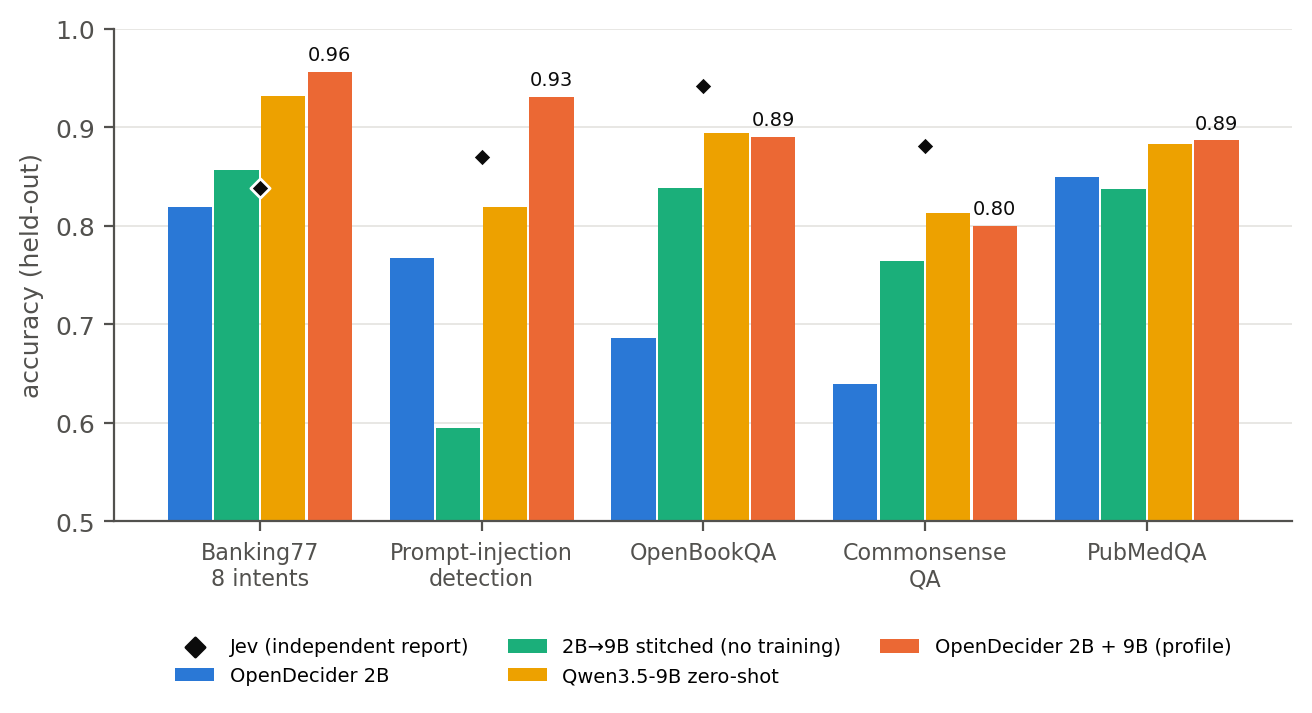
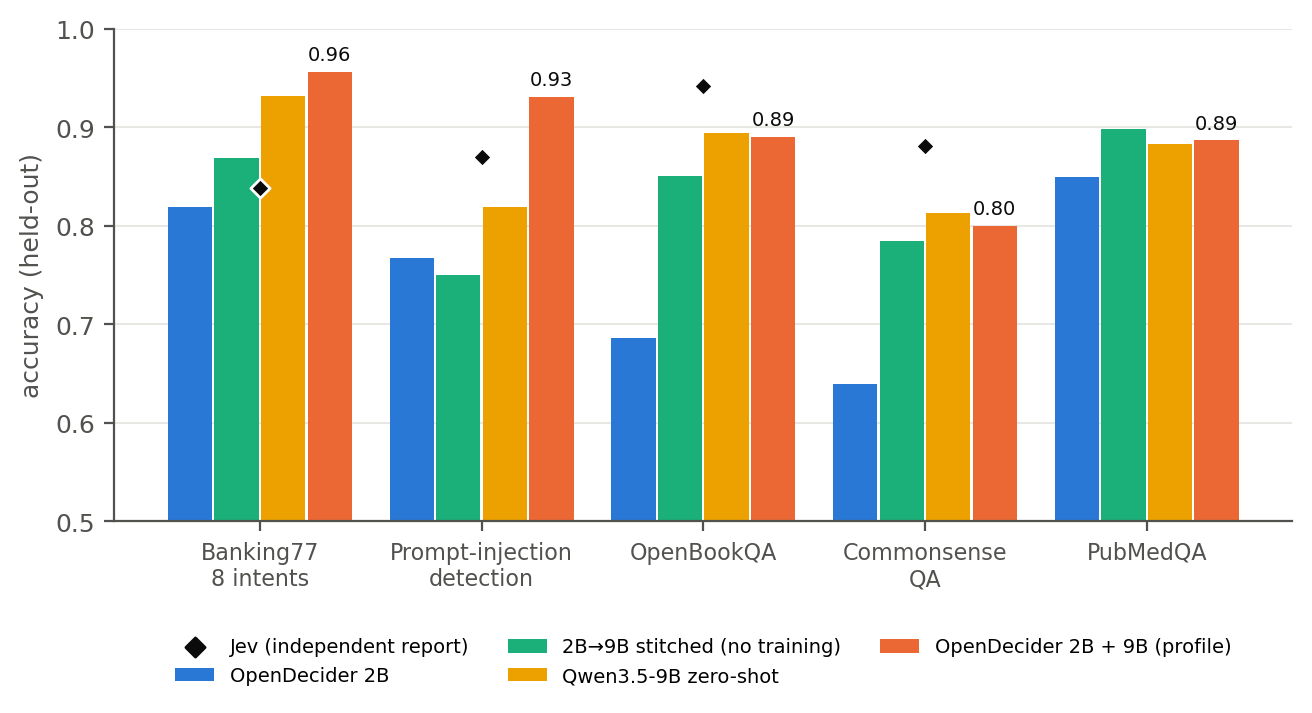
Corrected stitched-9B results on the GGUF weights (typed-decisions 0.643, public, none, memory); figures updated

diff --git a/docs/make_figures.py b/docs/make_figures.py
@@ -20,9 +20,9 @@ rows = [  # name, accuracy, KL, colour, ours?
     ("MiniLM-L6, fitted per workflow", 0.587, 0.262, GREY, False),
     ("Prior (ignores input)", 0.470, 0.347, GREY, False),
     ("OpenDecider 2B, zero-shot", 0.577, 0.324, BLUE, True),
-    ("OpenDecider 2B→9B stitched, zero-shot", 0.616, 0.279, BLUE, True),
+    ("OpenDecider 2B→9B stitched, zero-shot", 0.643, 0.240, BLUE, True),
     ("OpenDecider + 9B, linear profile", 0.600, 0.271, AQUA, True),
-    ("OpenDecider tree profile (fitted, 2-fold)", 0.675, None, ORANGE, True),
+    ("OpenDecider tree profile (fitted, 2-fold)", 0.686, None, ORANGE, True),
 ]
 fig, ax = plt.subplots(figsize=(7.4, 3.6))
 y = list(range(len(rows)))[::-1]
@@ -43,7 +43,7 @@ fig.savefig("docs/img/typed_decisions.png"); plt.close(fig)
 # ---- public benchmarks
 B = [("banking77_8way", "Banking77\n8 intents"), ("prompt_injections", "Prompt-injection\ndetection"), ("openbookqa", "OpenBookQA"),
      ("commonsenseqa", "Commonsense\nQA"), ("pubmedqa", "PubMedQA")]
-S = [("preds-x2b", "OpenDecider 2B", BLUE), ("public-x9b-stitch", "2B→9B stitched (no training)", AQUA),
+S = [("preds-x2b", "OpenDecider 2B", BLUE), ("public-x9b-gguf", "2B→9B stitched (no training)", AQUA),
      ("zs-9b", "Qwen3.5-9B zero-shot", YELLOW)]
 JEV = {"banking77_8way": 0.838, "prompt_injections": 0.870, "openbookqa": 0.942, "commonsenseqa": 0.881}
 ENS = json.load(open("runs/ens-x2b-9b/ensemble_cv.json"))

diff --git a/README.md b/README.md
@@ -74,8 +74,8 @@ Full tables: [`docs/RESULTS.md`](docs/RESULTS.md).
 | meraGPT Decider 1 (proprietary) | leaderboard | 0.768 | 0.096 | 0.052 |
 | TypeSafe Jev 1.13 (proprietary) | leaderboard | 0.727 | 1.442 | 0.148 |
 | Featherless Simple Jev (35B MoE) | leaderboard | 0.716 | 0.488 | 0.176 |
-| OpenDecider tree profile | fitted, 2-fold | **0.675** [0.66, 0.69] | – | **0.113** |
-| OpenDecider 2B→9B stitched | zero-shot | **0.616** [0.59, 0.64] | **0.279** | 0.153 |
+| OpenDecider tree profile | fitted, 2-fold | **0.686** [0.67, 0.71] | – | **0.106** |
+| OpenDecider 2B→9B stitched | zero-shot | **0.643** [0.62, 0.67] | **0.240** | 0.135 |
 | OpenDecider 2B | zero-shot | 0.577 | 0.324 | 0.168 |
 | Qwen3.5-9B letter scores | zero-shot | 0.573 | 0.899 | 0.344 |
 
@@ -100,9 +100,10 @@ labeled data, and is not a zero-shot result.
 | | Banking77 (8-way) | Prompt-injection detection | OpenBookQA | CommonsenseQA | PubMedQA |
 |---|---|---|---|---|---|
 | OpenDecider 2B | 0.819 | 0.767 | 0.686 | 0.639 | 0.849 |
-| 2B→9B stitched | 0.856 | 0.595 | 0.838 | 0.764 | 0.837 |
+| 2B→9B stitched | 0.869 | 0.750 | 0.850 | 0.785 | **0.898** |
 | Qwen3.5-9B zero-shot | 0.931 | 0.819 | 0.894 | 0.813 | 0.883 |
-| OpenDecider 2B + 9B profile | **0.956** | **0.931** | 0.890 | 0.800 | **0.887** |
+| OpenDecider 2B + 9B profile | **0.956** | **0.931** | 0.890 | 0.800 | 0.887 |
+| OpenDecider stitched 9B + 9B profile | 0.950 | 0.897 | **0.900** | 0.810 | **0.899** |
 | Jev (third-party report) | 0.838 | 0.870 | 0.942 | 0.881 | – |
 
 All values are accuracy. Prompt-injection detection is a classification task
@@ -111,18 +112,18 @@ model labels each text as an injection attempt or a normal request. 0.931 means 
 label; the errors include both missed injections and false alarms. It does not measure whether the model itself
 resists injected instructions inside a state. That is a separate test and not done yet.
 
-### `none` option (2B backbone, no extra training)
+### `none` option (no extra training)
 
 Held-out questions from the training families (clinc, massive, dbpedia, arc, snli), plus questions paired with an
 unrelated state. AUROC measures how well P(none) separates unanswerable from answerable questions.
 
-| Case | Mean P(none) | AUROC vs answerable |
-|---|---|---|
-| Answerable (correct option listed) | 0.097 | – |
-| Correct option removed | 0.430 | 0.845 |
-| State unrelated to the question | 0.151 | 0.795 |
+| Case | 2B: mean P(none) | 2B: AUROC | 9B stitched: mean P(none) | 9B stitched: AUROC |
+|---|---|---|---|---|
+| Answerable (correct option listed) | 0.097 | – | 0.021 | – |
+| Correct option removed | 0.430 | 0.845 | 0.301 | 0.945 |
+| State unrelated to the question | 0.151 | 0.795 | 0.095 | 0.925 |
 
-Accuracy on answerable questions is unchanged (0.892). A learned `none` vector with only its two parameters trained
+Accuracy on answerable questions: 0.892 (2B), 0.916 (9B). A learned `none` vector with only its two parameters trained
 did worse (unrelated-state AUROC 0.537). See [`docs/roadmap_designs.md`](docs/roadmap_designs.md).
 
 ### Memory and quantization (Jetson AGX Orin, 2B backbone, no retraining)
@@ -204,10 +205,10 @@ Design notes: [`docs/roadmap_designs.md`](docs/roadmap_designs.md),
 | | Minimum | Tested |
 |---|---|---|
 | GPU memory, 2B backbone | 2.4 GB for states up to about 1k tokens, 2.5 GB up to 4k, 3.1 GB up to 15k (int8 weights: 1.9 GB). With 4-bit weights and cache: 1.8 / 1.8 / 2.5 GB | Jetson AGX Orin 64 GB (inference), DGX Spark (training) |
-| GPU memory, 9B backbone | about 10 GB of int8 weights plus the same per-state cost (estimate, not measured) | Jetson AGX Orin 64 GB |
+| GPU memory, 9B backbone | 9.8 GB for states up to about 1k tokens, 9.9 GB up to 4k, 11.0 GB up to 15k (int8 weights: 8.6 GB) | Jetson AGX Orin 64 GB |
 | Host RAM | 12 GB peak while loading the 2B backbone | same |
 | Disk, 2B backbone | 4.3 GB weights + about 0.1 GB checkpoint | same |
-| Disk, 9B backbone (stitched) | about 18 GB bf16 weights + 0.23 GB checkpoint | same |
+| Disk, 9B backbone (stitched) | 5.2 GB Q4_0 GGUF (loaded directly, see `src/opendecider/gguf_load.py`) + 0.23 GB checkpoint | same |
 | Disk, Python environment | about 6 GB (PyTorch, transformers) | same |
 | Python | 3.12 | 3.12 on aarch64 (JetPack) |
 | CPU only | Unit tests only (tiny random model) | – |
@@ -277,7 +278,7 @@ Environment variables:
 ### Known limitations
 
 - Accuracy trails Jev and Decider 1 on typed-decisions (zero-shot 0.616 vs 0.727 and 0.768).
-- The stitched 9B loses accuracy on prompt-injection detection (0.595 vs 0.767 for the 2B).
+- The stitched 9B is slightly below the 2B on prompt-injection detection (0.750 vs 0.767).
 - 4-bit weights (NF4) cost 4 to 8 points on the public sets because the head was trained on int8 features.
 - Tree profiles overfit below about 250 labels. Use `method: "auto"` and let cross-validation choose.
 - Latency is 0.8 to 1.6 s per request on the Orin for states up to about 4k tokens, and 4.4 to 4.9 s at 15k. The target
@@ -286,9 +287,6 @@ Environment variables:
 - The prefix cache matches the uncached path to within 0.007 to 0.026 in probability (int8 cache boundaries), not
   bit-exactly.
 - Dense retrieval uses mean-pooled backbone states, which is a weak retriever. BM25 is the default.
-- The published 2B→9B stitched numbers are superseded. The 9B has an untied LM head, and those runs computed the
-  option log-prob feature with the input embeddings instead. The loader now keeps the real head, and a re-evaluation
-  on the 9B GGUF weights is running (`scripts/eval_9b.sh`).
 - There is no Jev API access. All Jev numbers come from TypeSafe or third parties.
 - Checkpoints are not published yet.
 
@@ -298,7 +296,7 @@ Everything below is either running or planned. Results will be added here and in
 
 | Area | Status |
 |---|---|
-| 9B backbone: re-evaluation, memory, latency, `none` option, explanations | Running on the GGUF weights (`scripts/eval_9b.sh`). |
+| 9B with CUDA graphs and quantized-kernel weights; 9B AWQ | Graphs running. AWQ needs ~8.5 GB of disk; planned on another machine. |
 | 9B training (warm start from the stitched head) | Planned, on a separate training machine. |
 | GPUs other than the Jetson AGX Orin (desktop and data-center cards, DGX Spark inference) | Planned. All memory and latency numbers are from one Orin 64 GB. |
 | GPU tests in CI | Planned. Unit tests run on CPU with a tiny random model; one GPU test covers the fused attention path. |

diff --git a/docs/RESULTS.md b/docs/RESULTS.md
@@ -1,8 +1,8 @@
 # OpenDecider: detailed results
 
-> Note (2026-09-30): the 2B→9B stitched rows below were computed with the input embeddings standing in for the 9B's
-> untied LM head in the option log-prob feature. They are kept for the record and will be replaced by the
-> re-evaluation on the 9B GGUF weights (`scripts/eval_9b.sh`).
+> Note (2026-09-30): the 2B→9B stitched rows in §2–4 were computed with the input embeddings standing in for the 9B's
+> untied LM head in the option log-prob feature. They are kept for the record. Corrected results on the 9B GGUF
+> weights are in §11 and in the README.
 
 ## Conventions
 
@@ -470,3 +470,41 @@ option rows including `none`). CUPTI kernel timing is not permitted on this Jets
   the Orin delivers. The prefix cache (repeat or growing states) and retrieval (fewer tokens) are the levers here.
 - int8 weight-only matmuls dequantize every call. bf16 weights (`weight_quant: none`, 3.6 GB) run the 838-token case
   in 0.55 s instead of 0.86 s, and 15k tokens in 4.65 s instead of 4.92 s.
+
+## 11. Stitched 9B on the GGUF weights, with the untied LM head (corrected)
+
+`scripts/eval_9b.sh`. The 9B loads from the Q4_0 GGUF that llama-server uses (`src/opendecider/gguf_load.py`;
+validated against llama-server: same top token on three prompts, top-1 log-prob within 0.004). Weights are re-quantized
+to int8. The stitch was refit on these weights (held-out cosine 0.919, previously 0.895). Checkpoint:
+`runs/x9b-gguf-stitch/model.pt`.
+
+typed-decisions (zero-shot, 2,000 decisions, CIs over cases):
+
+| Model | Accuracy | KL | Brier | Log loss | ECE |
+|---|---|---|---|---|---|
+| 2B→9B stitched (GGUF, correct head) | 0.643 [0.620, 0.670] | 0.240 [0.227, 0.253] | 0.135 [0.126, 0.143] | 1.007 | 0.090 |
+| previous stitched run (wrong head) | 0.616 [0.593, 0.639] | 0.279 | 0.153 | 1.046 | 0.146 |
+
+Decision profiles over the 2B, the stitched 9B and the 9B letter scores (2-fold, decision-level CIs): linear 0.641
+[0.622, 0.663], GBDT 0.686 [0.666, 0.707] (Brier 0.106), forest 0.666 [0.648, 0.687].
+
+Public benchmarks (1,000 resamples):
+
+| Split | Stitched 9B | ECE | + 9B letter scores (2-fold profile) | ECE |
+|---|---|---|---|---|
+| Banking77 8-way | 0.869 [0.813, 0.919] | 0.094 | 0.950 [0.912, 0.981] | 0.020 |
+| Prompt-injection detection | 0.750 [0.672, 0.828] | 0.150 | 0.897 [0.836, 0.948] | 0.106 |
+| OpenBookQA | 0.850 [0.818, 0.878] | 0.077 | 0.900 [0.874, 0.924] | 0.030 |
+| CommonsenseQA | 0.785 [0.758, 0.809] | 0.040 | 0.810 [0.786, 0.834] | 0.025 |
+| PubMedQA | 0.898 [0.879, 0.918] | 0.026 | 0.899 [0.880, 0.918] | 0.027 |
+
+`none` option (explicit "none of the above", same protocol as the 2B): P(none) 0.021 on answerable questions, 0.301
+with the correct option removed (AUROC 0.945), 0.095 on unrelated states (AUROC 0.925); accuracy on answerable
+questions 0.916.
+
+Memory and latency, eager (not graphs), int8 weights, one fresh process:
+
+| Cache | Weights (GB) | Peak GB at 838 / 3,744 / 14,752 tokens | Latency s | Stored state (MB) | typed acc (500) | Banking77 | Injection detection |
+|---|---|---|---|---|---|---|---|
+| int8 | 8.557 | 9.814 / 9.946 / 10.985 | 2.642 / 5.423 / 15.228 | 281.0 | 0.602 | 0.869 | 0.750 |
+| int4 | 8.557 | 9.809 / 9.919 / 10.985 | 2.714 / 5.565 / 15.546 | 178.7 | 0.588 | 0.869 | 0.750 |
